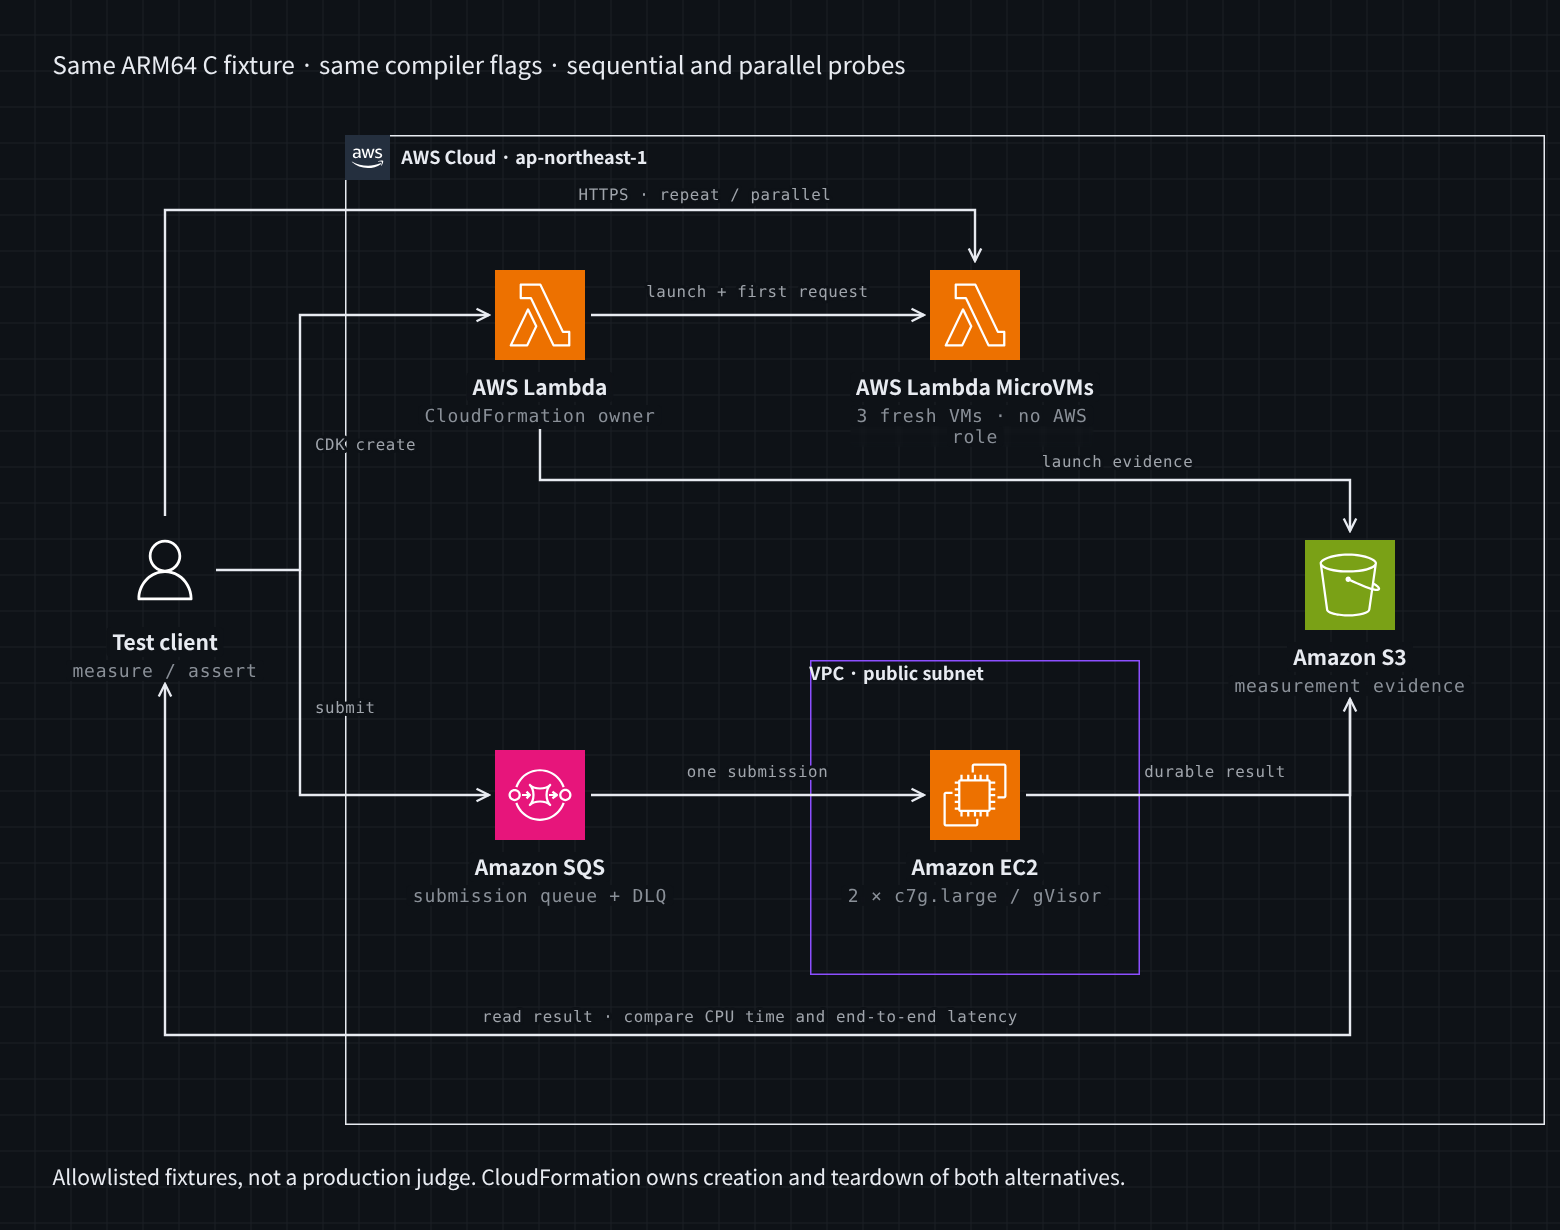
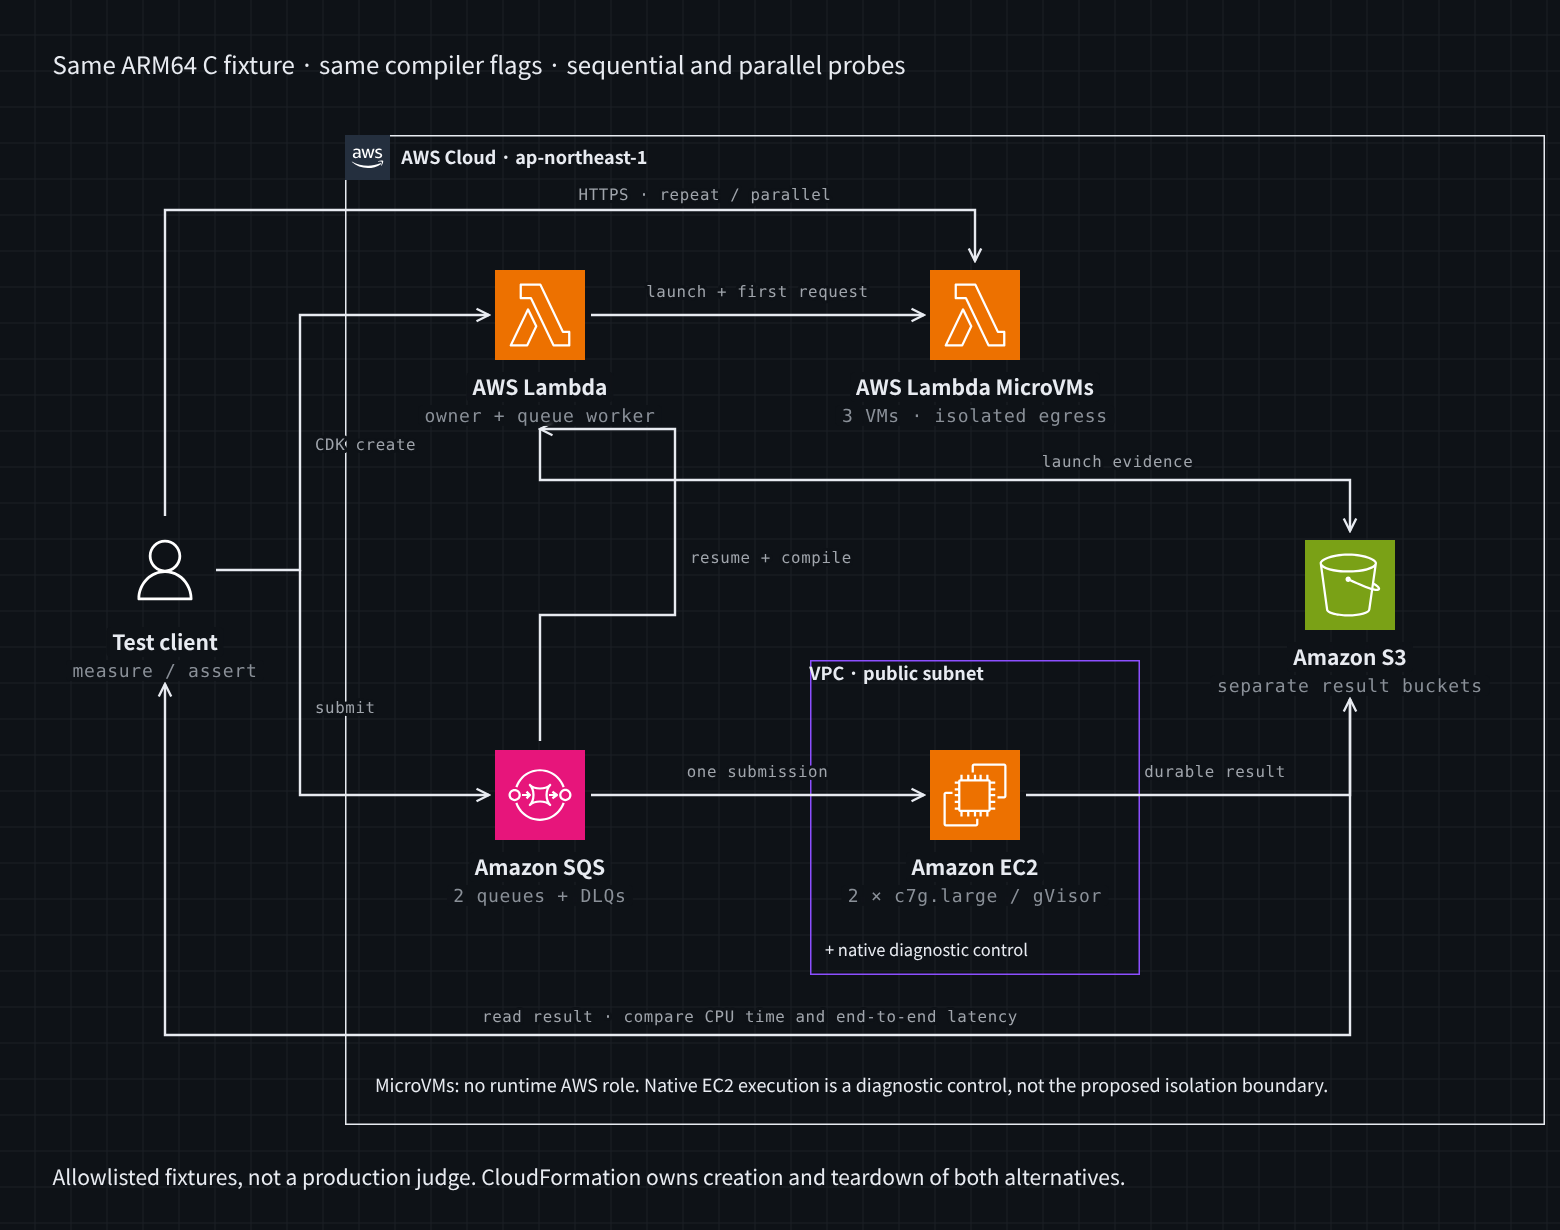
Include the queued resume path and native measurement control

diff --git a/docs/services/diagrams/fairness-comparison.html b/docs/services/diagrams/fairness-comparison.html
@@ -165,8 +165,11 @@ path.aws { stroke: var(--color-ink); stroke-width:1.6; fill:none; }
 <path class="aws" d="M360 286 V320 H900 V354" marker-end="url(#open)"/><text class="el" x="745" y="311" text-anchor="middle">launch evidence</text>
 <path class="aws" d="M200 380 V530 H326" marker-end="url(#open)"/><text class="el" x="210" y="475">submit</text>
 <path class="aws" d="M394 530 H616" marker-end="url(#open)"/><text class="el" x="505" y="518" text-anchor="middle">one submission</text>
+<path class="aws" d="M360 494 V410 H450 V286 H360" marker-end="url(#open)"/><text class="el" x="460" y="375">resume + compile</text>
 <path class="aws" d="M684 530 H900 V466" marker-end="url(#open)"/><text class="el" x="810" y="518" text-anchor="middle">durable result</text>
 <path class="aws" d="M900 466 V690 H110 V456" marker-end="url(#open)"/><text class="el" x="500" y="681" text-anchor="middle">read result · compare CPU time and end-to-end latency</text>
 </svg>
[2 lines of base64/hex data omitted]
+<p style="position:absolute;left:250px;top:715px;font-size:12px">MicroVMs: no runtime AWS role. Native EC2 execution is a diagnostic control, not the proposed isolation boundary.</p>
+<p style="position:absolute;left:35px;top:775px;font-size:14px">Allowlisted fixtures, not a production judge. CloudFormation owns creation and teardown of both alternatives.</p>
 </div></div><p class="foot">AWS Architecture Icons · <a href="https://github.com/caru-ini/stack-diagram">made with stack-diagram</a></p></main></body></html>

diff --git a/infra/scripts/fairness-diagram.py b/infra/scripts/fairness-diagram.py
@@ -20,24 +20,27 @@ html = template + '''
 <path class="aws" d="M360 286 V320 H900 V354" marker-end="url(#open)"/><text class="el" x="745" y="311" text-anchor="middle">launch evidence</text>
 <path class="aws" d="M200 380 V530 H326" marker-end="url(#open)"/><text class="el" x="210" y="475">submit</text>
 <path class="aws" d="M394 530 H616" marker-end="url(#open)"/><text class="el" x="505" y="518" text-anchor="middle">one submission</text>
+<path class="aws" d="M360 494 V410 H450 V286 H360" marker-end="url(#open)"/><text class="el" x="460" y="375">resume + compile</text>
 <path class="aws" d="M684 530 H900 V466" marker-end="url(#open)"/><text class="el" x="810" y="518" text-anchor="middle">durable result</text>
 <path class="aws" d="M900 466 V690 H110 V456" marker-end="url(#open)"/><text class="el" x="500" y="681" text-anchor="middle">read result · compare CPU time and end-to-end latency</text>
 </svg>
 '''
 for x, y, icon, name, role in [
     (110, 350, 'user', 'Test client', 'measure / assert'),
-    (360, 180, 'lambda', 'AWS Lambda', 'CloudFormation owner'),
-    (650, 180, 'lambda', 'AWS Lambda MicroVMs', '3 fresh VMs · no AWS role'),
-    (360, 500, 'sqs', 'Amazon SQS', 'submission queue + DLQ'),
+    (360, 180, 'lambda', 'AWS Lambda', 'owner + queue worker'),
+    (650, 180, 'lambda', 'AWS Lambda MicroVMs', '3 VMs · isolated egress'),
+    (360, 500, 'sqs', 'Amazon SQS', '2 queues + DLQs'),
     (650, 500, 'ec2', 'Amazon EC2', '2 × c7g.large / gVisor'),
-    (900, 360, 's3', 'Amazon S3', 'measurement evidence'),
+    (900, 360, 's3', 'Amazon S3', 'separate result buckets'),
 ]:
     imgs = f'<img src="%%ICON_{icon}%%" alt="">'
     if icon == 'user':
         imgs = '<img class="lt" src="%%ICON_user%%" alt=""><img class="dk" src="%%ICON_user_dark%%" alt="">'
     tile = 'bare res' if icon == 'user' else 'bare'
     html += f'<div class="node" style="left:{x-100}px;top:{y}px;width:200px"><div class="tile {tile}">{imgs}</div><div class="name"><span>{name}</span></div><div class="role"><span>{role}</span></div></div>'
-html += '''<p style="position:absolute;left:35px;top:775px;font-size:14px">Allowlisted fixtures, not a production judge. CloudFormation owns creation and teardown of both alternatives.</p>
+html += '''<p style="position:absolute;left:550px;top:625px;font-size:11px">+ native diagnostic control</p>
+<p style="position:absolute;left:250px;top:715px;font-size:12px">MicroVMs: no runtime AWS role. Native EC2 execution is a diagnostic control, not the proposed isolation boundary.</p>
+<p style="position:absolute;left:35px;top:775px;font-size:14px">Allowlisted fixtures, not a production judge. CloudFormation owns creation and teardown of both alternatives.</p>
 </div></div><p class="foot">AWS Architecture Icons · <a href="https://github.com/caru-ini/stack-diagram">made with stack-diagram</a></p></main></body></html>'''
 draft = root / 'work/fairness-diagram-draft.html'
 draft.write_text(html)
